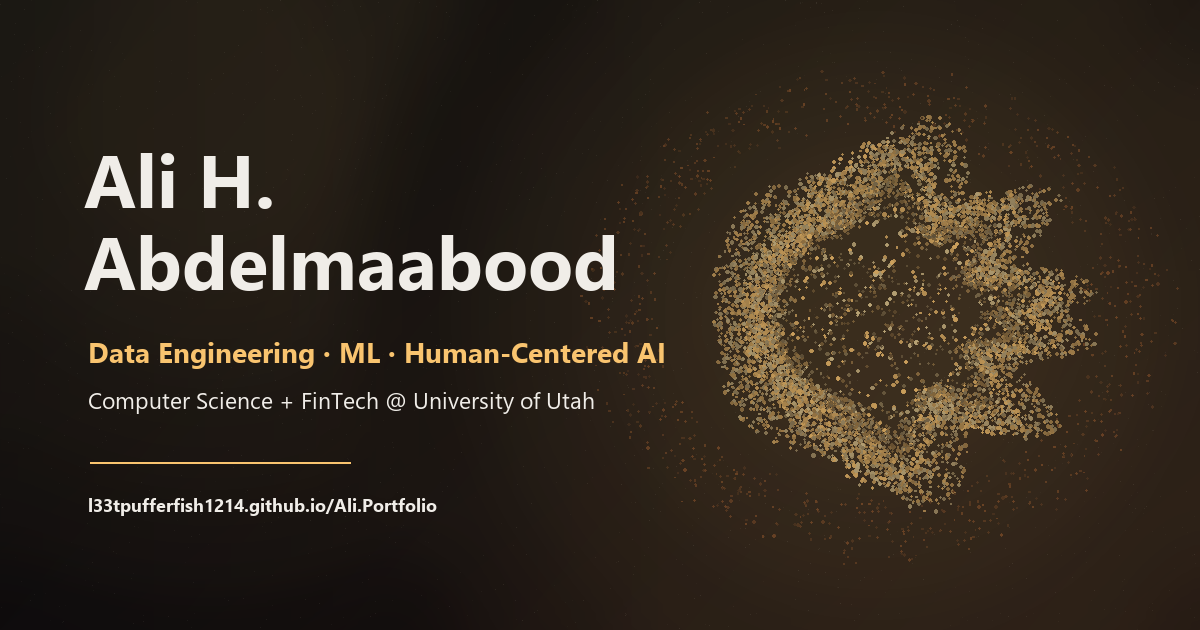
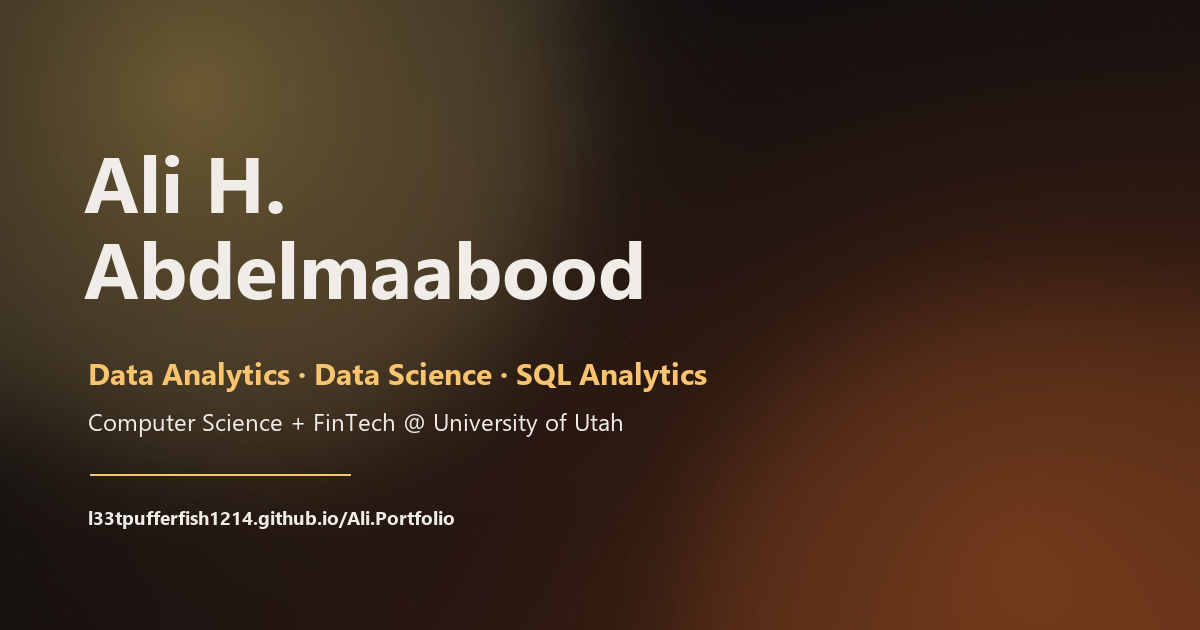
Resume Update, Mobile version margins improved

diff --git a/index.html b/index.html
@@ -4,20 +4,20 @@
     <meta charset="UTF-8">
     <meta name="viewport" content="width=device-width, initial-scale=1.0">
     <title>Ali H. Abdelmaabood</title>
-    <meta name="description" content="Ali H. Abdelmaabood is a Computer Science and FinTech student building data pipelines, predictive models, and human-centered AI tools.">
+    <meta name="description" content="Ali H. Abdelmaabood is a Computer Science student focused on data analytics, data science, SQL analytics, statistical modeling, and predictive modeling.">
     <link rel="canonical" href="https://l33tpufferfish1214.github.io/Ali.Portfolio/">
     <meta property="og:type" content="website">
     <meta property="og:url" content="https://l33tpufferfish1214.github.io/Ali.Portfolio/">
-    <meta property="og:title" content="Ali H. Abdelmaabood | Data Engineering & Machine Learning">
-    <meta property="og:description" content="Computer Science + FinTech student building data pipelines, predictive models, and human-centered AI tools.">
+    <meta property="og:title" content="Ali H. Abdelmaabood | Data Analytics & Data Science">
+    <meta property="og:description" content="Computer Science + FinTech student working with data cleaning, SQL analytics, statistical modeling, and predictive modeling.">
     <meta property="og:image" content="https://l33tpufferfish1214.github.io/Ali.Portfolio/assets/social-preview.png">
     <meta property="og:image:secure_url" content="https://l33tpufferfish1214.github.io/Ali.Portfolio/assets/social-preview.png">
     <meta property="og:image:width" content="1200">
     <meta property="og:image:height" content="630">
     <meta property="og:image:alt" content="Gold particle sphere beside Ali H. Abdelmaabood portfolio title.">
     <meta name="twitter:card" content="summary_large_image">
-    <meta name="twitter:title" content="Ali H. Abdelmaabood | Data Engineering & Machine Learning">
-    <meta name="twitter:description" content="Computer Science + FinTech student building data pipelines, predictive models, and human-centered AI tools.">
+    <meta name="twitter:title" content="Ali H. Abdelmaabood | Data Analytics & Data Science">
+    <meta name="twitter:description" content="Computer Science + FinTech student working with data cleaning, SQL analytics, statistical modeling, and predictive modeling.">
     <meta name="twitter:image" content="https://l33tpufferfish1214.github.io/Ali.Portfolio/assets/social-preview.png">
     <link rel="icon" href="code logo.ico?v=gold" type="image/x-icon">
     <link rel="stylesheet" href="style.css">
@@ -82,21 +82,22 @@
 
                     <!-- Bio -->
                     <p class="description" data-aos="fade-up" data-aos-duration="900" data-aos-delay="450">
-                        <b>Computer Science student · FinTech minor · Human Factors certificate in progress</b><br><br>
-                        I work with data end-to-end: building pipelines, cleaning messy datasets, and developing predictive models that connect behavior to real outcomes.<br><br>
-                        Most recently, I built a data pipeline from scratch to consolidate fragmented institutional data that had never been brought together, and developed logistic regression models to predict donor behavior from alumni engagement data.<br><br>
-                        My background sits at the crossroads of technical problem-solving and human-centered design. That combination shapes how I approach AI and machine learning. I care about how these systems work, but more importantly, how they affect the people using them. That's also what draws me to FinTech, a space where data-driven models meet real financial decisions people have to live with.<br><br>
-                        I work in Python, SQL, R, and Spark. I'm fluent in Arabic and English, and I've worked and studied across three countries. Open to roles in data engineering, machine learning, and AI, especially where the problem is still being figured out.
+                        <b>Computer Science student · Financial Technology minor · Human Factors certificate expected July 2027</b><br><br>
+                        I focus on Data Analytics and Data Science, with hands-on experience in data cleaning, statistical modeling, SQL analytics, and predictive modeling using R, Python, and SQL.<br><br>
+                        Most recently, I have been engineering a Python and SQL data pipeline for the University of Utah College of Science Dean's Office to aggregate and standardize siloed university data across departments and platforms.<br><br>
+                        I have also cleaned alumni engagement, donation, and demographic datasets; built logistic regression models to evaluate donation likelihood; and developed visualizations to measure philanthropic behavior and chapter impact.<br><br>
+                        My background combines technical problem-solving with outreach, student services, event coordination, and leadership across the United States, South Korea, and Egypt. I am fluent in Arabic and English, and I am open to roles in data analytics, data science, data engineering, and predictive modeling.
                     </p>
 
                     <!-- Skills chips -->
                     <div class="skills-row" data-aos="fade-up" data-aos-duration="900" data-aos-delay="550">
-                        <span class="chip">Data Engineering</span>
-                        <span class="chip">Machine Learning</span>
+                        <span class="chip">Data Analytics</span>
+                        <span class="chip">Data Science</span>
+                        <span class="chip">SQL Analytics</span>
+                        <span class="chip">Predictive Modeling</span>
                         <span class="chip">Python</span>
                         <span class="chip">SQL</span>
                         <span class="chip">R</span>
-                        <span class="chip">Spark</span>
                     </div>
 
                     <!-- CTAs -->
@@ -110,6 +111,29 @@
                             <svg width="14" height="14" viewBox="0 0 14 14" fill="none"><path d="M7 1v8M3.5 5.5L7 9l3.5-3.5M2 12.5h10" stroke="currentColor" stroke-width="1.5" stroke-linecap="round" stroke-linejoin="round"/></svg>
                         </a>
                     </div>
+
+                    <!-- EDUCATION SECTION -->
+                    <section id="education" class="section education-section" data-aos="fade-up" data-aos-duration="900" data-aos-delay="150">
+                        <div class="section-header">
+                            <h2>Education</h2>
+                            <div class="section-line"></div>
+                        </div>
+
+                        <div class="currently-list">
+                            <div class="currently-item">
+                                <span>University of Utah</span>
+                                <p>Bachelor of Science in Computer Science, John & Marcia Price College of Engineering.</p>
+                            </div>
+                            <div class="currently-item">
+                                <span>Minor</span>
+                                <p>Financial Technology, Dave Eccles School of Business.</p>
+                            </div>
+                            <div class="currently-item">
+                                <span>Certificate</span>
+                                <p>Human Factors Certificate, expected July 2027.</p>
+                            </div>
+                        </div>
+                    </section>
 
                     <!-- CURRENTLY SECTION -->
                     <section id="currently" class="section currently-section" data-aos="fade-up" data-aos-duration="900" data-aos-delay="150">
@@ -125,11 +149,11 @@
                             </div>
                             <div class="currently-item">
                                 <span>Working With</span>
-                                <p>Python and SQL pipelines that consolidate fragmented institutional data into usable datasets for outreach and planning.</p>
+                                <p>Python, SQL, R, Excel, Apache Spark, Jupyter Notebooks, Salesforce, SQL Server, and SSMS.</p>
                             </div>
                             <div class="currently-item">
                                 <span>Exploring</span>
-                                <p>Applied machine learning, human-centered AI, and FinTech systems where model outputs affect real decisions.</p>
+                                <p>Data analytics, statistical modeling, predictive modeling, and human-centered financial technology.</p>
                             </div>
                         </div>
                     </section>
@@ -149,11 +173,12 @@
                                 <div class="timeline-content">
                                     <div class="timeline-tag">Data Analytics</div>
                                     <h3>Data Analytics & University Engagement Intern</h3>
-                                    <p class="timeline-company">College of Science Dean's Office, University of Utah · Salt Lake City, UT</p>
+                                    <p class="timeline-company">COS Dean's Office, University of Utah Internship · Salt Lake City, UT</p>
                                     <ul>
-                                        <li>Engineering a Python and SQL pipeline to aggregate and standardize siloed university data across departments and platforms.</li>
-                                        <li>Making previously fragmented institutional information accessible and usable in one consolidated place.</li>
-                                        <li>Supporting recruitment outreach, partner school engagement, and residential student programming across campus.</li>
+                                        <li>Engineering a Python and SQL data pipeline to aggregate and standardize siloed university data across departments and platforms.</li>
+                                        <li>Making previously fragmented institutional information accessible and usable in one place.</li>
+                                        <li>Conducting targeted outreach to new and existing high school partners to expand the College of Science recruitment pipeline.</li>
+                                        <li>Coordinating events for residential student programming in partnership with Housing across campus.</li>
                                     </ul>
                                 </div>
                             </div>
@@ -163,32 +188,18 @@
                                 <div class="timeline-date">Sept 2025 – Dec 2025</div>
                                 <div class="timeline-content">
                                     <div class="timeline-tag">Data Science</div>
-                                    <h3>Alumni Chapter Event Intern</h3>
-                                    <p class="timeline-company">University of Utah · Salt Lake City, UT</p>
+                                    <h3>Alumni Chapter Event Intern – Data Science and Engagement</h3>
+                                    <p class="timeline-company">University of Utah Internship · Salt Lake City, UT</p>
                                     <ul>
-                                        <li>Aided on-site coordination and engagement for Alumni Chapter events with graduates and university stakeholders.</li>
-                                        <li>Cleaned and prepped alumni datasets (engagement logs, donations, demographic info) using R + Excel.</li>
-                                        <li>Built logistic regression models and visualizations to evaluate donation likelihood, philanthropic behavior, and chapter impact.</li>
+                                        <li>Aided on-site coordination and engagement for Alumni Chapter events, resulting in a positive experience for graduates and stakeholders.</li>
+                                        <li>Cleaned and prepped alumni datasets, including engagement logs, donations, and demographic information, using R and Excel.</li>
+                                        <li>Built logistic regression models to evaluate whether attending Alumni events increased donation likelihood.</li>
+                                        <li>Developed predictive models and visualizations to measure philanthropic behavior and chapter impact.</li>
                                     </ul>
                                 </div>
                             </div>
 
                             <div class="timeline-item" data-aos="fade-left" data-aos-duration="700" data-aos-delay="150">
-                                <div class="timeline-dot"></div>
-                                <div class="timeline-date">Aug 2024 – June 2025</div>
-                                <div class="timeline-content">
-                                    <div class="timeline-tag">Leadership</div>
-                                    <h3>Hall Council</h3>
-                                    <p class="timeline-company">Representative & Event Organizer · Incheon, South Korea</p>
-                                    <ul>
-                                        <li>Led event planning and coordination in a high-density residential setting.</li>
-                                        <li>Adapted quickly to last-minute changes to ensure smooth event execution.</li>
-                                        <li>Strengthened communication, leadership, and problem-solving under pressure.</li>
-                                    </ul>
-                                </div>
-                            </div>
-
-                            <div class="timeline-item" data-aos="fade-left" data-aos-duration="700" data-aos-delay="200">
                                 <div class="timeline-dot"></div>
                                 <div class="timeline-date">July 2025 – Aug 2025</div>
                                 <div class="timeline-content">
@@ -196,8 +207,22 @@
                                     <h3>AAST Management – Sponsor and Partnership Management</h3>
                                     <p class="timeline-company">Freelance Commission · Cairo, Egypt</p>
                                     <ul>
-                                        <li>Managed communication and partnerships with event sponsors to support timely coordination.</li>
+                                        <li>Managed communication and partnerships with event sponsors, ensuring strong professional relationships and timely coordination.</li>
                                         <li>Reached out to and secured participation from prominent influencers to promote the event and increase audience engagement.</li>
+                                    </ul>
+                                </div>
+                            </div>
+
+                            <div class="timeline-item" data-aos="fade-left" data-aos-duration="700" data-aos-delay="200">
+                                <div class="timeline-dot"></div>
+                                <div class="timeline-date">Aug 2024 – June 2025</div>
+                                <div class="timeline-content">
+                                    <div class="timeline-tag">Leadership</div>
+                                    <h3>Hall Council – Representative & Event Organizer</h3>
+                                    <p class="timeline-company">UAC · Incheon, South Korea</p>
+                                    <ul>
+                                        <li>Coordinated event planning for high-density residential facilities, managing room reservations, material preparation, and on-site registration.</li>
+                                        <li>Managed last-minute logistical shifts and technical troubleshooting during live events to maintain a seamless guest experience.</li>
                                     </ul>
                                 </div>
                             </div>
@@ -207,12 +232,12 @@
                                 <div class="timeline-date">Aug 2023 – Dec 2024</div>
                                 <div class="timeline-content">
                                     <div class="timeline-tag">Management</div>
-                                    <h3>Student Services Manager</h3>
-                                    <p class="timeline-company">Manager · Incheon, South Korea</p>
+                                    <h3>Student Services Manager – Management and Planning</h3>
+                                    <p class="timeline-company">UAC · Incheon, South Korea</p>
                                     <ul>
-                                        <li>Acted as primary point of contact for student inquiries, providing high-level customer service.</li>
-                                        <li>Provided consistent leadership to encourage a positive and collaborative student environment.</li>
-                                        <li>Led planning and execution of large-scale community events, increasing participation through targeted outreach.</li>
+                                        <li>Acted as the primary point of contact for student and assistant inquiries, resolving issues and providing high-level customer service to a diverse campus community.</li>
+                                        <li>Provided consistent leadership and clear communication to foster a positive and collaborative student environment.</li>
+                                        <li>Led the planning and execution of large-scale community events, increasing student participation through targeted outreach and collaborative programming.</li>
                                     </ul>
                                 </div>
                             </div>
@@ -356,9 +381,10 @@
         /* ===== TYPEWRITER ===== */
         const roles = [
             'CS + FinTech Student',
-            'Data Engineering',
-            'Machine Learning',
-            'Human-Centered AI'
+            'Data Analytics',
+            'Data Science',
+            'SQL Analytics',
+            'Predictive Modeling'
         ];
         let roleIdx = 0, charIdx = 0, deleting = false;
         const tw = document.getElementById('typewriter');

diff --git a/style.css b/style.css
@@ -968,6 +968,10 @@ nav a:hover .nav-link-underline {
         touch-action: auto;
     }
 
+    .container {
+        padding: 0 0.8rem;
+    }
+
     .cursor-dot, .cursor-ring {
         display: none;
     }
@@ -977,7 +981,7 @@ nav a:hover .nav-link-underline {
     }
 
     header {
-        padding: 3rem 1rem 1rem;
+        padding: 2rem 0.2rem 1rem;
         flex-direction: column;
         gap: 1.5rem;
         justify-content: flex-start;
@@ -993,15 +997,15 @@ nav a:hover .nav-link-underline {
         height: auto;
         max-height: none;
         min-height: auto;
-        padding: 1rem;
+        padding: 0.5rem 0 2.5rem;
         overflow: visible;
         overscroll-behavior: auto;
         touch-action: auto;
     }
 
     .content {
-        margin: 1rem 0 0 0;
-        padding: 0 1rem;
+        margin: 0.75rem auto 0;
+        padding: 0 0.2rem;
         max-width: 100%;
     }
 
@@ -1031,7 +1035,7 @@ nav a:hover .nav-link-underline {
     }
 
     .section {
-        padding: 1.5rem 0.5rem;
+        padding: 1.35rem 0.1rem;
     }
 
     .currently-item {
@@ -1050,7 +1054,11 @@ nav a:hover .nav-link-underline {
     }
 
     .timeline-item {
-        padding: 1rem 1rem;
+        padding: 1rem 0.95rem;
+    }
+
+    .project-card {
+        padding: 1rem 0.95rem;
     }
 
     .interactive_object {
@@ -1058,6 +1066,7 @@ nav a:hover .nav-link-underline {
     }
 
     .contact-strip {
+        padding: 1rem 0.95rem;
         flex-direction: column;
         align-items: flex-start;
         gap: 0.8rem;
